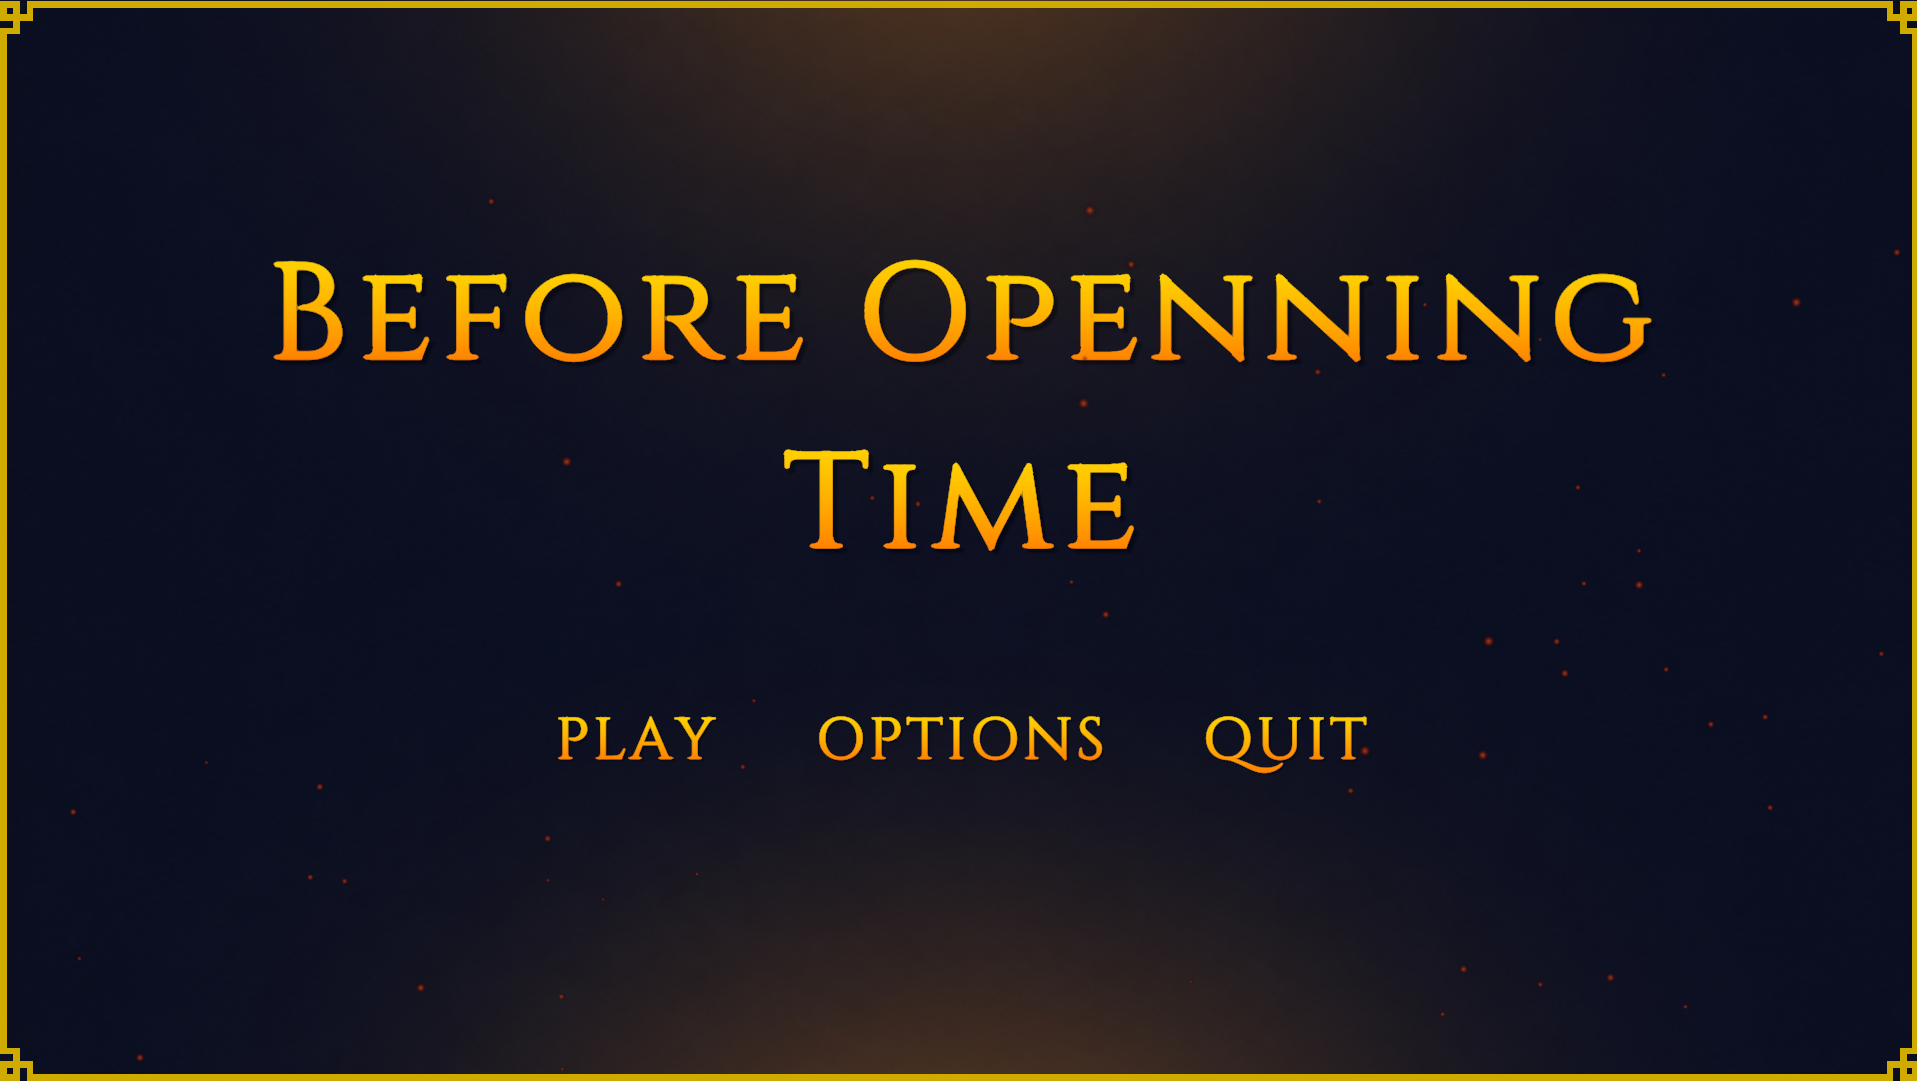
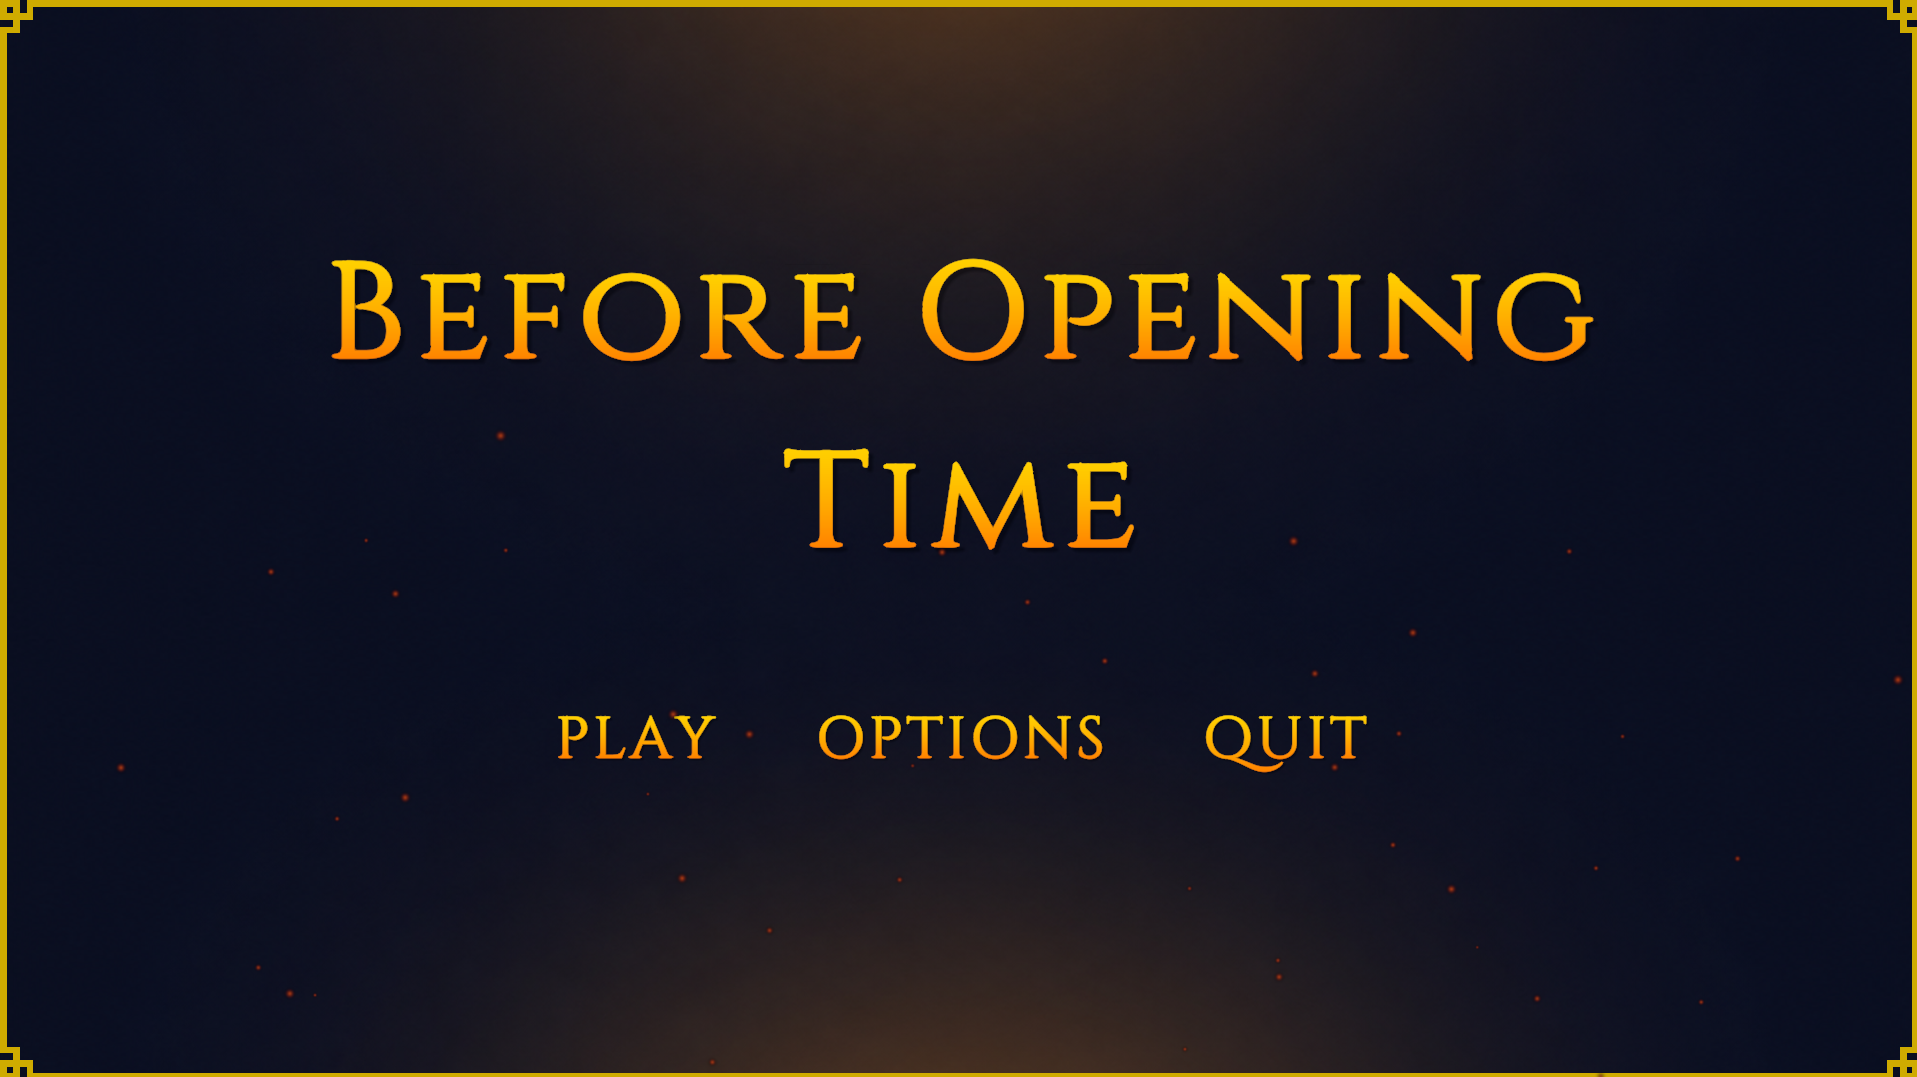
Fixed typo in the game name :')

diff --git a/Assets/Scripts/Inventory/PlayerInventory.cs b/Assets/Scripts/Inventory/PlayerInventory.cs
@@ -10,10 +10,13 @@ public class PlayerInventory : MonoBehaviour
     [Header("UI References")] 
     [SerializeField] private GameObject hotBarObject;
 
-    [Header("Player References")] 
+    [Header("Player References")]
     [SerializeField] private Transform playerCameraTransform;
     [SerializeField] private Transform playerHandTransform;
     [SerializeField] private PlayerInteraction playerInteraction;
+
+    [Header("Drop Zone")]
+    [SerializeField] private BoxCollider globalBox;
     
     [Header("Hotbar Input Actions")] 
     [SerializeField] private InputActionReference[] hotbarActions;
@@ -99,6 +102,15 @@ public class PlayerInventory : MonoBehaviour
         UpdateHotbarOpacity();
     }
 
+    private bool IsInsideGlobalBox(Vector3 worldPos)
+    {
+        var localPos = globalBox.transform.InverseTransformPoint(worldPos) - globalBox.center;
+        var extents = globalBox.size * 0.5f;
+        return Mathf.Abs(localPos.x) <= extents.x
+            && Mathf.Abs(localPos.y) <= extents.y
+            && Mathf.Abs(localPos.z) <= extents.z;
+    }
+
     private void HandleDropItem()
     {
         var equippedSlot = _hotbarSlots[_selectedHotbarIndex];
@@ -110,11 +122,11 @@ public class PlayerInventory : MonoBehaviour
 
         if (prefab == null) return;
 
-        var dropped = Instantiate(
-            prefab,
-            playerCameraTransform.position + playerCameraTransform.forward,
-            Quaternion.identity
-        );
+        var dropPosition = playerCameraTransform.position + playerCameraTransform.forward;
+
+        if (globalBox != null && !IsInsideGlobalBox(dropPosition)) return;
+
+        var dropped = Instantiate(prefab, dropPosition, Quaternion.identity);
 
         var item = dropped.GetComponent<Item>();
         if (item == null) item = dropped.AddComponent<Item>();

diff --git a/Assets/Scripts/Interactable/RotateDoor.cs b/Assets/Scripts/Interactable/RotateDoor.cs
@@ -20,6 +20,7 @@ public class RotateDoor : MonoBehaviour
     {
         if (_currentCoroutine != null) StopCoroutine(_currentCoroutine);
         _currentCoroutine = StartCoroutine(ToggleDoor());
+        if (TryGetComponent(out PlaySFX sfx)) sfx.Play();
     }
 
     private IEnumerator ToggleDoor()